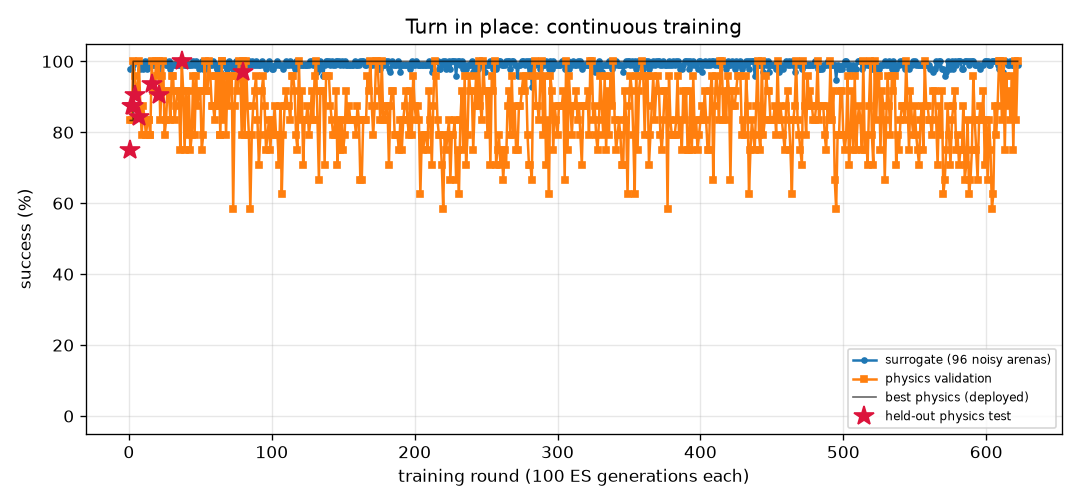
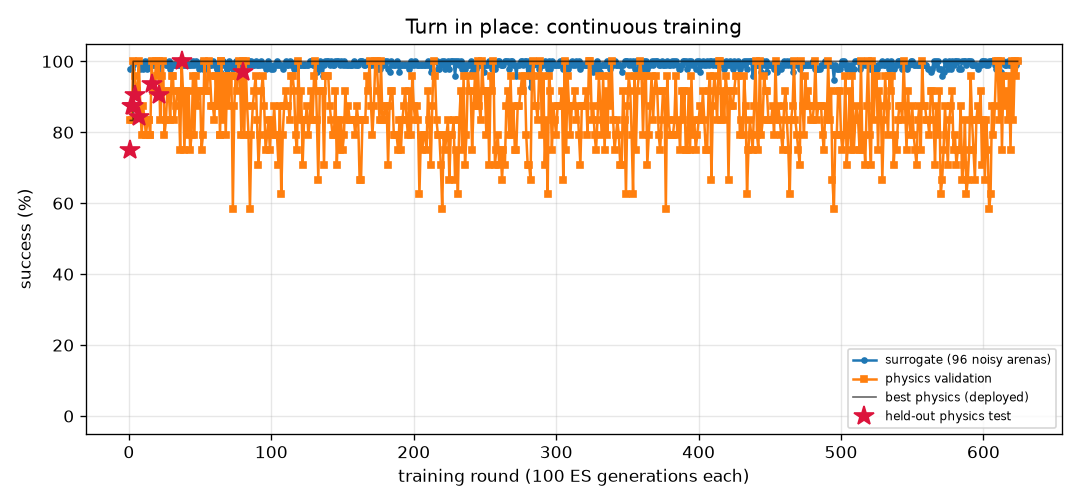
FlyLab: continuous training progress
- walk_forward: optimal, physics val 100% of 24, round 163
- turn: optimal, physics val 100% of 24, round 624
- goto: optimal, physics val 100% of 24, round 148
- odor_seek: optimal, physics val 100% of 24, round 133
- odor_avoid: optimal, physics val 100% of 24, round 591
- light_seek: optimal, physics val 100% of 24, round 333
- light_avoid: optimal, physics val 100% of 24, round 326

diff --git a/projects/09_flylab/training/turn/REPORT.md b/projects/09_flylab/training/turn/REPORT.md
@@ -1,14 +1,14 @@
 # Turn in place (`turn`) — training report
 
-*Auto-generated by `train_brains.py`, last updated 2026-10-24T18:58:22.*
+*Auto-generated by `train_brains.py`, last updated 2026-10-24T19:11:26.*
 
 ![curve](curve.png)
 
 | | |
 |---|---|
-| rounds | 622 |
-| ES generations | 62200 |
-| physics runs | 15174 |
+| rounds | 624 |
+| ES generations | 62400 |
+| physics runs | 15222 |
 | status | **optimal** |
 | best brain | round 80: physics validation **100%** on 24 arenas, surrogate 100% |
 | held-out physics test | **97%** on 32 unseen arenas (95% CI 84%-99%) (errors: [1.6, 3.3, 6.3, 3.7, 1.1, 0.4, 2.4, 2.9, 0.1, 2.6, 0.5, 2.7, 1.5, 3.1, 4.5, 0.2, 0.5, 1.1, 2.0, 4.4, 2.8, 3.2, 0.3, 2.2, 0.5, 3.0, 0.3, 5.4, 0.4, 1.0, 4.7, 10.7]) |
@@ -17,8 +17,6 @@ Physics error per arena: deg from target heading (< 20 = success).
 
 | round | level | gens | sigma | surrogate | physics val | val errors | test | note |
 |---:|---:|---:|---:|---:|---:|---|---:|---|
-| 583 | 3 | 58300 | 0.024 | 98% | 75% | [10.6, 12.0, 0.2, 1.2, 0.7, 1.5, 4.0, 1.3, 3.2, 0.4, 5.1, 3.1, 1.0, 1.5, 3.0, 1.3, 2.6, 0.7, 1.3, 1.3, 6.0, 0.2, 3.6, 3.2] |  |  |
-| 584 | 3 | 58400 | 0.025 | 98% | 88% | [3.5, 4.6, 13.9, 1.4, 2.2, 0.4, 4.7, 0.7, 5.6, 0.0, 3.5, 1.2, 1.4, 0.4, 4.5, 2.0, 1.2, 0.9, 2.4, 1.1, 5.1, 1.1, 3.5, 3.5] |  | restart from best |
 | 585 | 3 | 58500 | 0.024 | 100% | 67% | [2.2, 3.2, 0.2, 0.9, 1.3, 1.5, 7.5, 6.2, 8.1, 1.9, 5.2, 2.6, 1.3, 0.4, 5.6, 2.2, 2.2, 4.0, 2.2, 2.4, 2.0, 3.8, 6.8, 7.3] |  |  |
 | 586 | 3 | 58600 | 0.024 | 100% | 71% | [1.1, 6.2, 10.0, 4.8, 2.0, 0.9, 6.3, 7.8, 6.7, 1.4, 5.6, 1.7, 4.0, 1.0, 5.6, 4.1, 1.8, 4.7, 3.6, 3.1, 3.4, 1.4, 7.3, 9.6] |  |  |
 | 587 | 3 | 58700 | 0.024 | 100% | 83% | [5.7, 3.6, 4.9, 0.5, 4.9, 2.8, 6.9, 7.9, 9.0, 1.5, 7.7, 3.8, 2.2, 1.2, 6.5, 3.5, 3.4, 4.8, 3.1, 3.8, 3.5, 6.1, 7.9, 7.6] |  |  |
@@ -57,3 +55,5 @@ Physics error per arena: deg from target heading (< 20 = success).
 | 620 | 3 | 62000 | 0.025 | 100% | 100% | [6.9, 14.8, 12.7, 5.4, 0.5, 6.7, 8.3, 8.6, 8.4, 14.9, 5.4, 7.6, 4.5, 3.7, 5.2, 7.0, 7.8, 13.9, 14.2, 14.5, 0.4, 5.6, 6.8, 8.8] |  | restart from best |
 | 621 | 3 | 62100 | 0.024 | 99% | 83% | [1.4, 2.4, 6.8, 0.0, 20.4, 2.5, 6.6, 7.1, 7.0, 0.4, 5.1, 0.8, 0.4, 0.5, 4.0, 17.4, 0.9, 3.6, 5.0, 18.6, 4.5, 2.0, 5.7, 4.3] |  |  |
 | 622 | 3 | 62200 | 0.025 | 99% | 100% | [5.5, 5.7, 1.1, 1.3, 1.1, 1.5, 4.7, 0.2, 3.8, 0.4, 3.2, 1.4, 1.1, 3.2, 3.9, 0.9, 1.2, 1.0, 0.9, 2.8, 5.7, 3.6, 4.1, 5.1] |  |  |
+| 623 | 3 | 62300 | 0.025 | 99% | 96% | [6.7, 11.0, 6.4, 4.0, 1.8, 0.5, 1.0, 0.7, 0.7, 1.7, 1.2, 3.2, 0.7, 3.8, 0.8, 1.8, 2.8, 2.5, 1.3, 4.1, 7.1, 10.0, 1.0, 5.5] |  |  |
+| 624 | 3 | 62400 | 0.025 | 100% | 100% | [3.7, 2.6, 0.8, 0.4, 1.2, 0.9, 5.0, 5.1, 4.6, 10.8, 3.6, 2.3, 2.7, 2.0, 4.0, 1.5, 2.6, 1.4, 8.9, 1.0, 4.0, 0.9, 4.1, 1.4] |  | restart from best |

diff --git a/projects/09_flylab/training/TRAINING.md b/projects/09_flylab/training/TRAINING.md
@@ -1,13 +1,13 @@
 # FlyLab brains — continuous training log
 
-*Auto-generated by `train_brains.py`, last updated 2026-10-24T19:04:32.*
+*Auto-generated by `train_brains.py`, last updated 2026-10-24T19:11:26.*
 
 Every skill has its own brain and its own training process: surrogate ES rounds, physics validation in MuJoCo, keep-the-best selection, and a held-out physics test that is never used for selection. See each skill's report for its full round-by-round history. Mastery is progressive: passing a level (100% physics validation, >=95% surrogate) doubles the validation and test arena sets; a brain is **optimal** once it holds up at level 3 (>=95% of 24 validation arenas) AND scores >=90% on the 32 held-out test arenas. Test columns show 95% Wilson confidence intervals.
 
 | skill | rounds | ES generations | physics runs | surrogate | physics val | **physics test** | status |
 |---|---:|---:|---:|---:|---:|---:|---|
 | [Walk forward](walk_forward/REPORT.md) | 163 | 16300 | 3926 | 100% | 100% of 24 | 100% of 32 (CI 89-100%) | **optimal** |
-| [Turn in place](turn/REPORT.md) | 622 | 62200 | 15174 | 100% | 100% of 24 | 97% of 32 (CI 84-99%) | **optimal** |
+| [Turn in place](turn/REPORT.md) | 624 | 62400 | 15222 | 100% | 100% of 24 | 97% of 32 (CI 84-99%) | **optimal** |
 | [Go to a location](goto/REPORT.md) | 148 | 14800 | 3438 | 100% | 100% of 24 | 100% of 32 (CI 89-100%) | **optimal** |
 | [Find food by smell](odor_seek/REPORT.md) | 133 | 13300 | 2558 | 100% | 100% of 24 | 100% of 32 (CI 89-100%) | **optimal** |
 | [Escape a bad smell](odor_avoid/REPORT.md) | 591 | 59100 | 11490 | 97% | 100% of 24 | 97% of 32 (CI 84-99%) | **optimal** |
